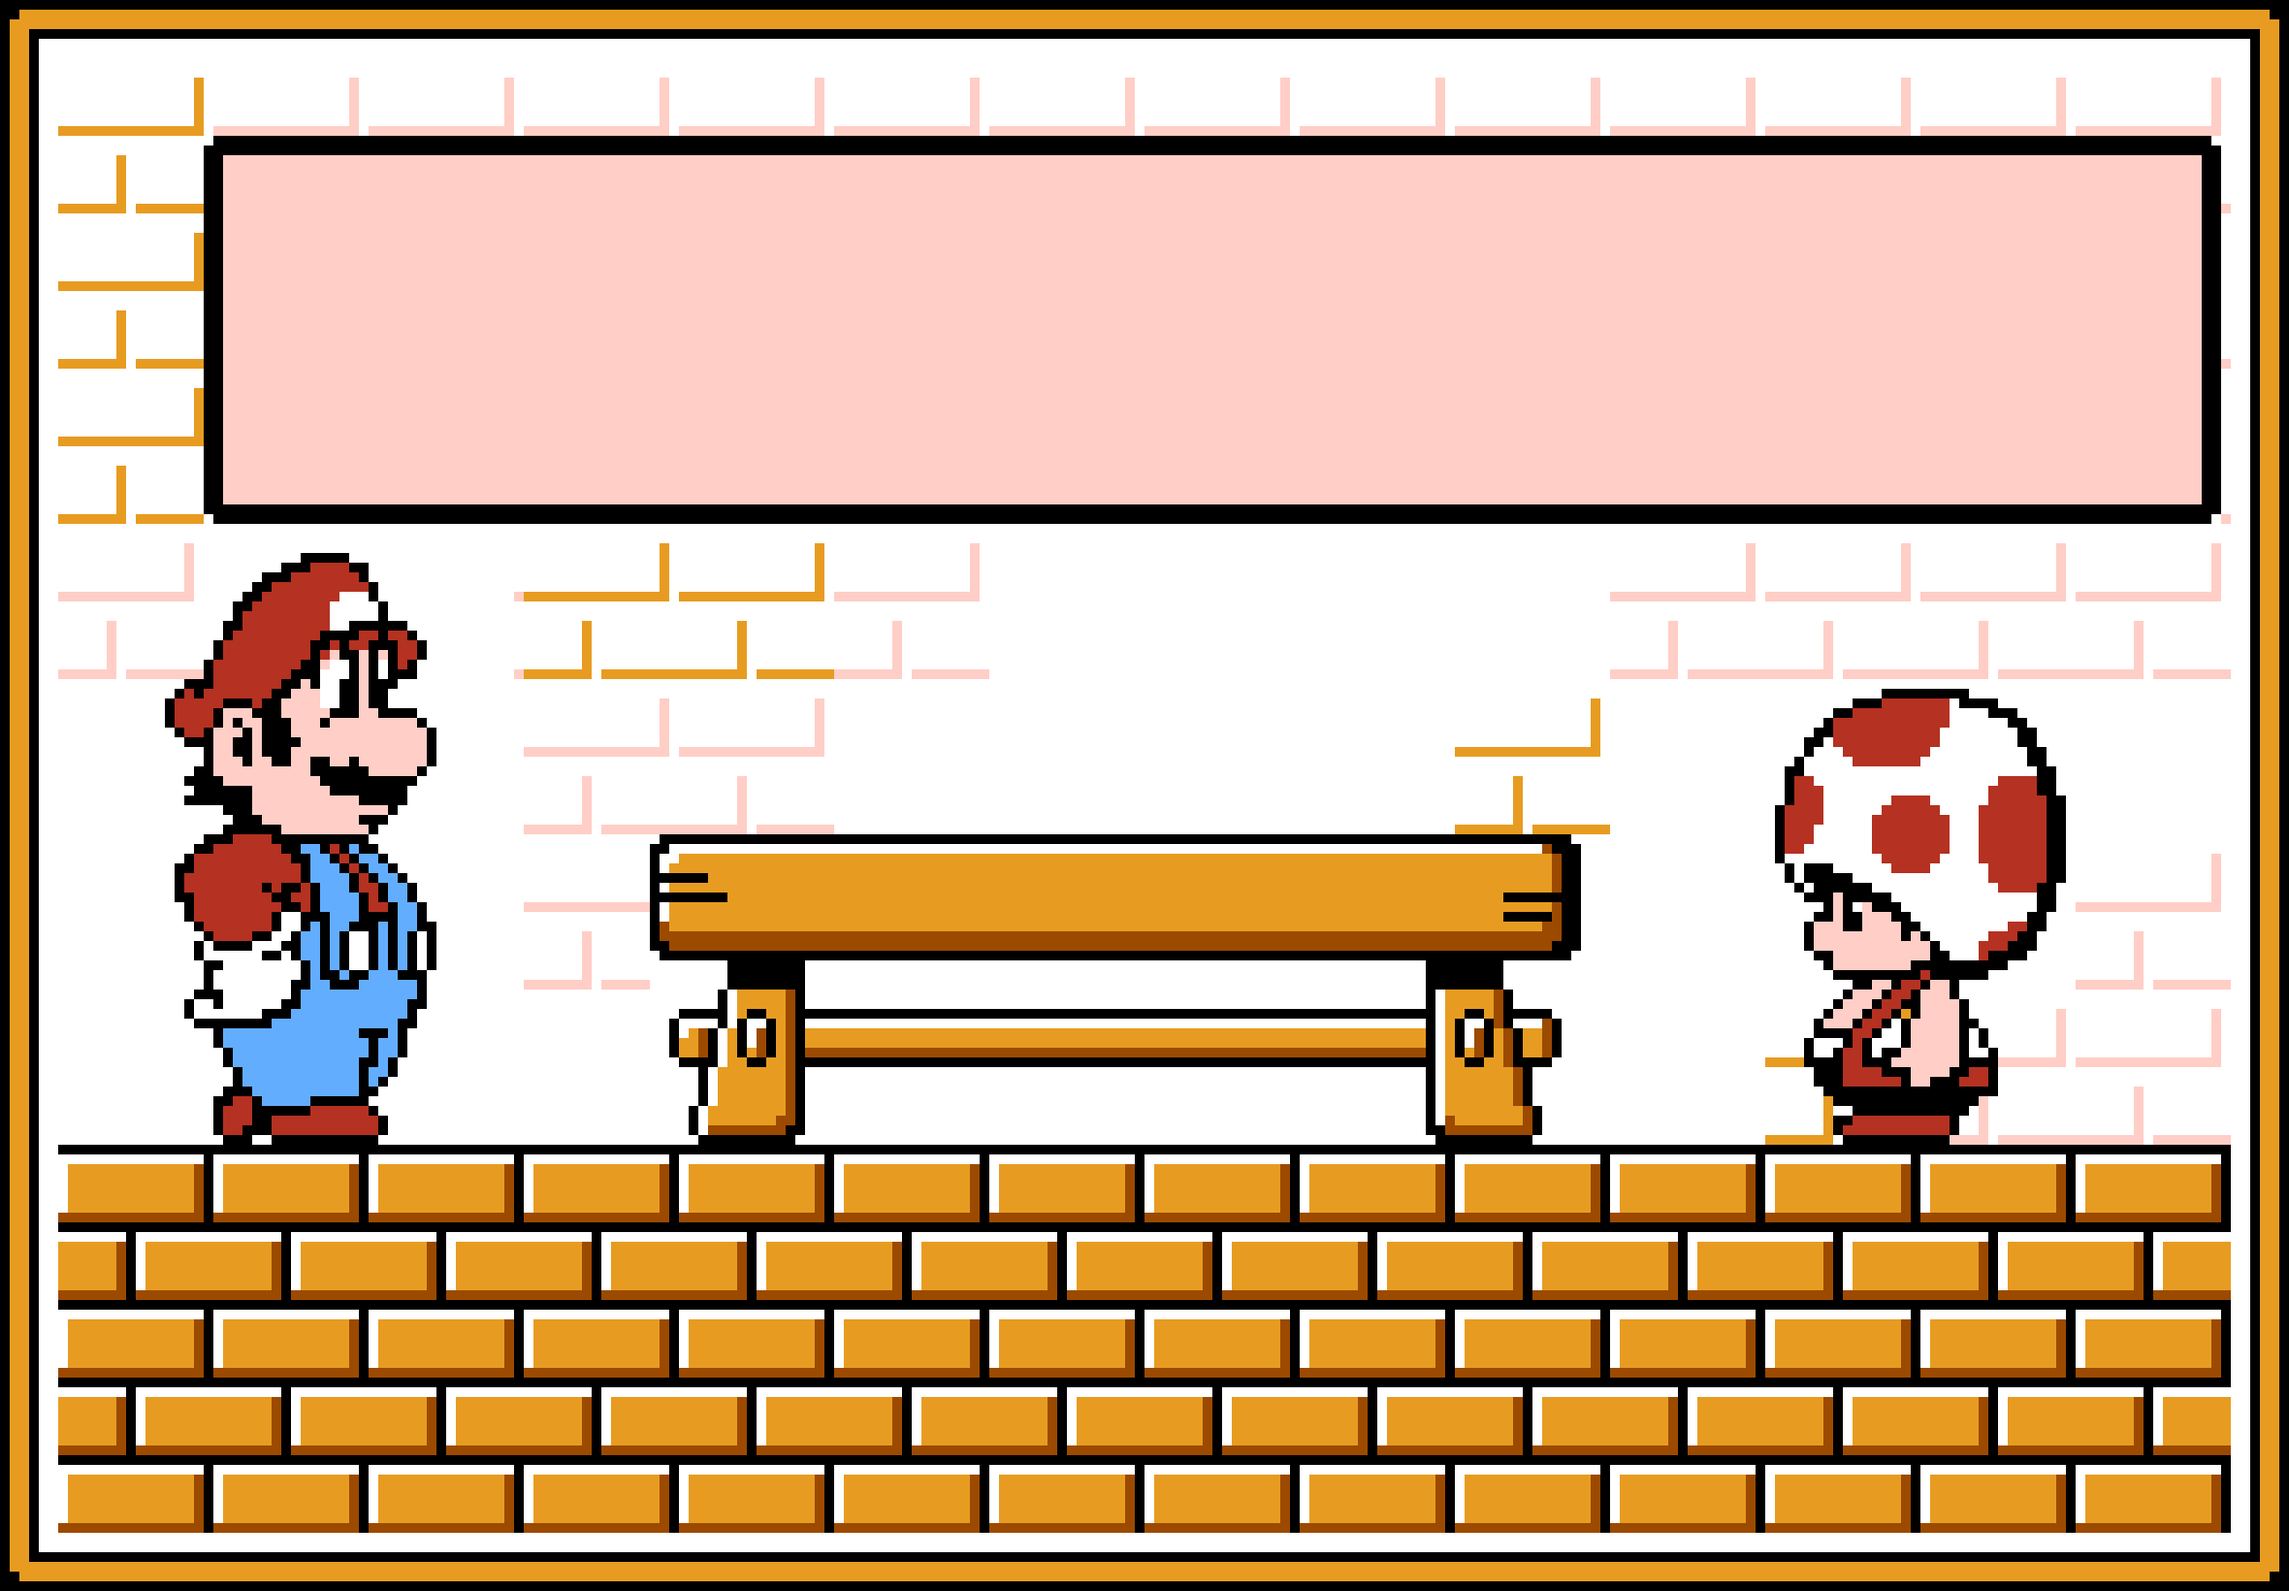
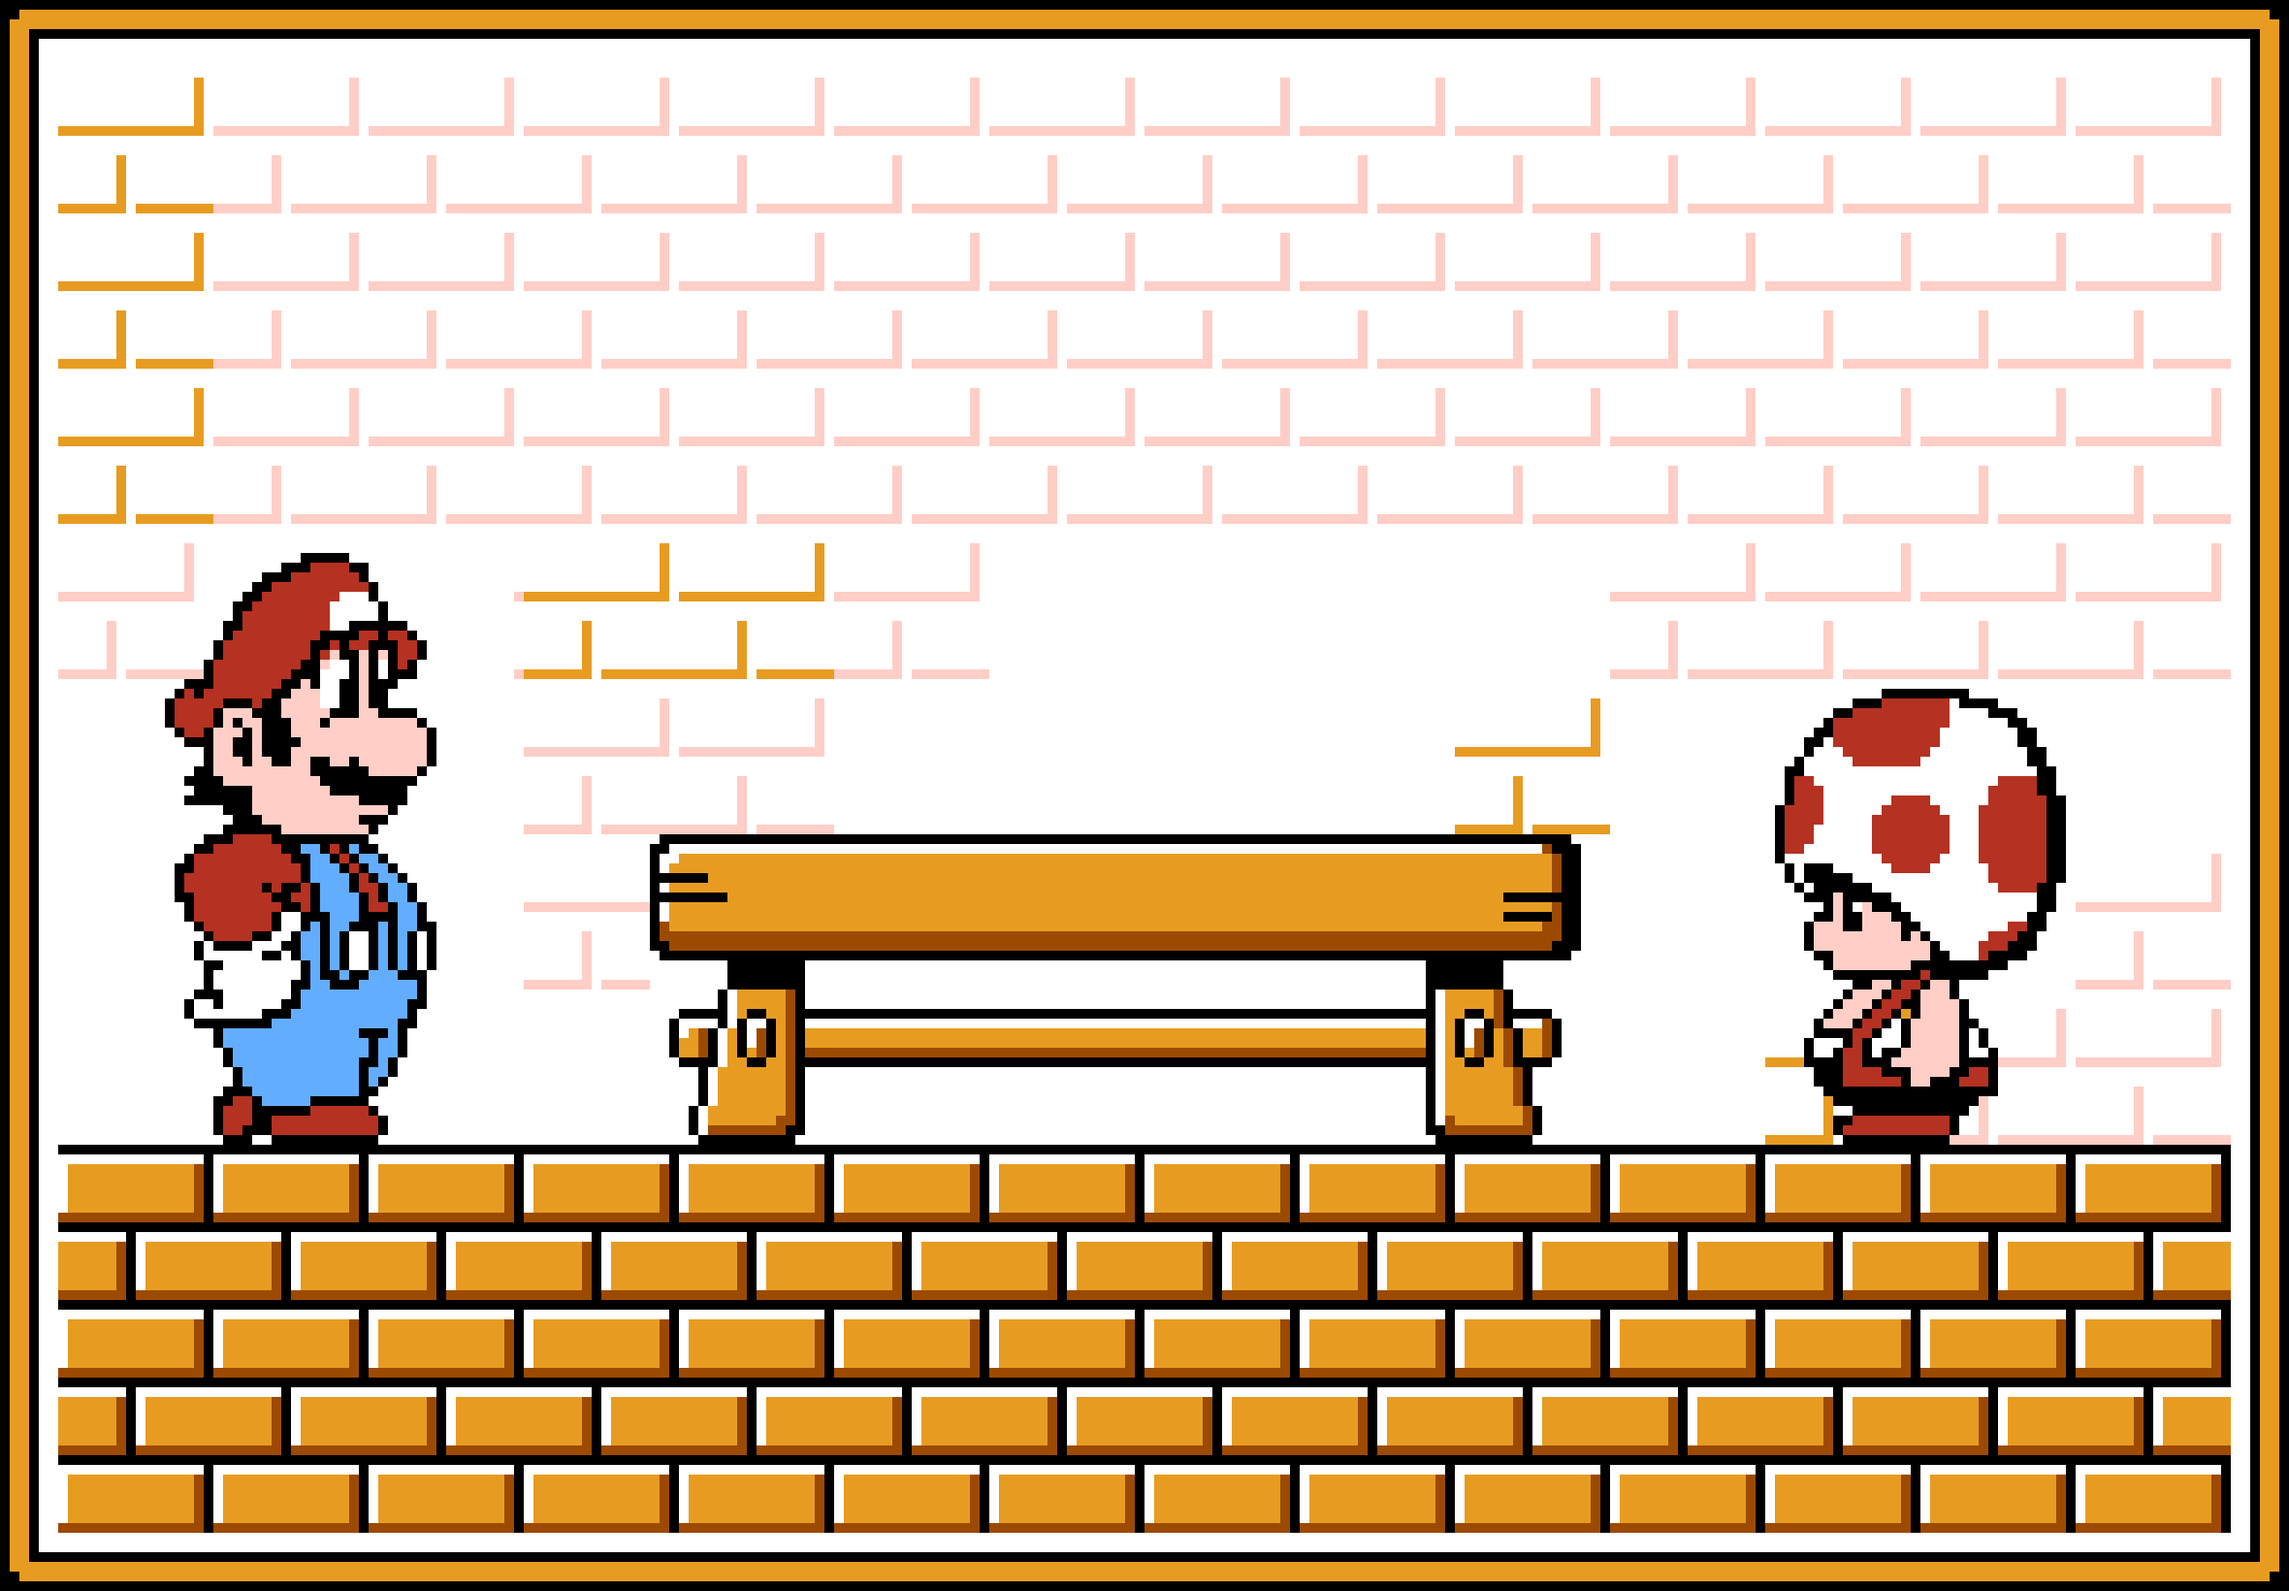
Finished start page and updated readme.

Changed region(s): [[0.0619, 0.0622, 0.9898, 0.3421]]

diff --git a/src/components/Start/index.js b/src/components/Start/index.js
@@ -4,17 +4,32 @@ import Styled from 'styled-components';
 import { Link } from 'react-router-dom';
 
 export default function Start() {
+
+    const typeDirections = () => {
+        const txt = 'Flip over any two cards and see if they match. You can only miss twice!';
+        const speed = 50;
+        let i = 0;
+        if (i < txt.length) {
+            document.getElementById("directions").innerHTML += txt.charAt(i);
+            i++;
+            setTimeout(typeDirections, speed);
+        }
+    }
+
     return <StartDiv>
         <div className="hero">
-            <button className="start-button"><Link to="/game" className={window.location.pathname === "/game"}>Start Game</Link></button>
+            <div className="text-box">
+                <span className="directions">Flip over any two cards and see if they match. You can only miss twice!</span>
+            </div>
+            <Link to="/game" className={window.location.pathname === "/game"}><button className="start-button">START</button></Link>
         </div>
     </StartDiv>
 };
 
 const StartDiv = Styled.div`
     width:100%;
-    height: 100%; 
-    margin-bottom: 30px;
+    height: 100%;
+    margin-bottom: 45px;
 
     .hero {
         background-image: url(/images/Toad-house.png);
@@ -25,10 +40,54 @@ const StartDiv = Styled.div`
         background-repeat: no-repeat;
         margin: auto;
         margin-top: 10px;
+        overflow: hidden;
     }
 
-    .start-button {
+    .text-box {
+        background-color: #ffcec6;
+        border: solid black 5px;
+        width: 50vw;
+        height 10vh;
         margin:auto;
+        margin-top: 50px;
+        padding-top: 50px;
+        padding-left: 20px;
+        display:flex;
+        justify-content: center;
+        flex-direction: column;
+        overflow: hidden;
+    }
+    span {
+        font-family: 'Press Start 2P', cursive;
+        font-size: 30px;
+        margin:auto;
+        margin-bottom: 50px;
+    }
+
+    a {
+        text-decoration:none;
+        color:orange;
+    }
+    &:focus, &:hover, &:visited, &:link, &:active {
+        text-decoration: none;
+    }
+    .start-button {
+        background-color:#e79c21;
+        border-radius:25px;
+        position: absolute;
+        width:120px;
+        height:50px;
+        left:45vw;
+        top: 36vh;
+        text-align: center;
+        font-size: 18px;
+        color:white;
+        font-family: 'Press Start 2P', cursive;
+    }
+
+    .start-button:hover {
+        background-color: #ffcec6;
+        cursor: pointer;
     }
 
 `

diff --git a/src/components/Footer/index.js b/src/components/Footer/index.js
@@ -18,8 +18,6 @@ const FooterDiv = Styled.div `
         width: 95vw;
         height: 100px;
         margin:auto;
-        font-family: 'Press Start 2P', cursive;
-        text-align: center;
 
         .hud {
             grid-area: hud;

diff --git a/src/App.js b/src/App.js
@@ -10,6 +10,9 @@ import {
 } from "react-router-dom";
 
 const GlobalStyle = createGlobalStyle`
+  html {
+    height: 100%;
+  }
   body {
     background-color: ${props => (props.blackColor ? 'black' : 'white')};
   }`

diff --git a/README.md b/README.md
@@ -1,68 +1,7 @@
-This project was bootstrapped with [Create React App](https://github.com/facebook/create-react-app).
+## Mario 3 Match Game
 
-## Available Scripts
+This game is based of the the N-Spade match game found in Super Mario Bros 3 for the NES.
 
-In the project directory, you can run:
+## Technologies
 
-### `npm start`
-
-Runs the app in the development mode.<br>
-Open [http://localhost:3000](http://localhost:3000) to view it in the browser.
-
-The page will reload if you make edits.<br>
-You will also see any lint errors in the console.
-
-### `npm test`
-
-Launches the test runner in the interactive watch mode.<br>
-See the section about [running tests](https://facebook.github.io/create-react-app/docs/running-tests) for more information.
-
-### `npm run build`
-
-Builds the app for production to the `build` folder.<br>
-It correctly bundles React in production mode and optimizes the build for the best performance.
-
-The build is minified and the filenames include the hashes.<br>
-Your app is ready to be deployed!
-
-See the section about [deployment](https://facebook.github.io/create-react-app/docs/deployment) for more information.
-
-### `npm run eject`
-
-**Note: this is a one-way operation. Once you `eject`, you can’t go back!**
-
-If you aren’t satisfied with the build tool and configuration choices, you can `eject` at any time. This command will remove the single build dependency from your project.
-
-Instead, it will copy all the configuration files and the transitive dependencies (Webpack, Babel, ESLint, etc) right into your project so you have full control over them. All of the commands except `eject` will still work, but they will point to the copied scripts so you can tweak them. At this point you’re on your own.
-
-You don’t have to ever use `eject`. The curated feature set is suitable for small and middle deployments, and you shouldn’t feel obligated to use this feature. However we understand that this tool wouldn’t be useful if you couldn’t customize it when you are ready for it.
-
-## Learn More
-
-You can learn more in the [Create React App documentation](https://facebook.github.io/create-react-app/docs/getting-started).
-
-To learn React, check out the [React documentation](https://reactjs.org/).
-
-### Code Splitting
-
-This section has moved here: https://facebook.github.io/create-react-app/docs/code-splitting
-
-### Analyzing the Bundle Size
-
-This section has moved here: https://facebook.github.io/create-react-app/docs/analyzing-the-bundle-size
-
-### Making a Progressive Web App
-
-This section has moved here: https://facebook.github.io/create-react-app/docs/making-a-progressive-web-app
-
-### Advanced Configuration
-
-This section has moved here: https://facebook.github.io/create-react-app/docs/advanced-configuration
-
-### Deployment
-
-This section has moved here: https://facebook.github.io/create-react-app/docs/deployment
-
-### `npm run build` fails to minify
-
-This section has moved here: https://facebook.github.io/create-react-app/docs/troubleshooting#npm-run-build-fails-to-minify
+This app was built with React as an exercise to learn the new hooks feature. It uses React Router DOM and Styled Components.
